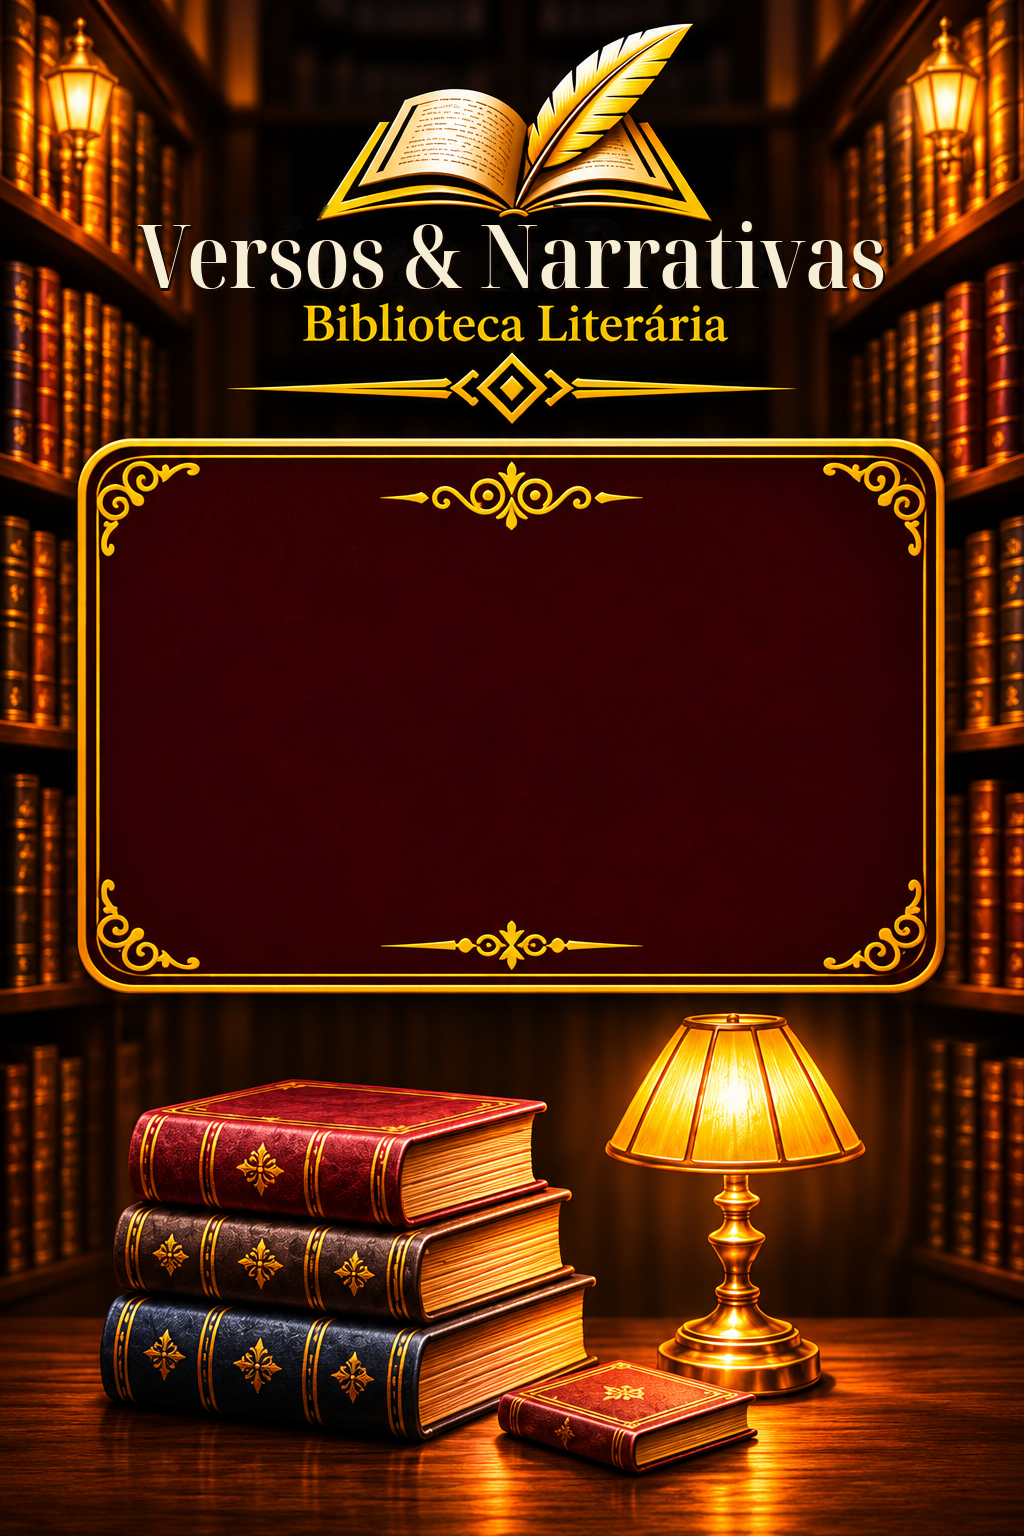
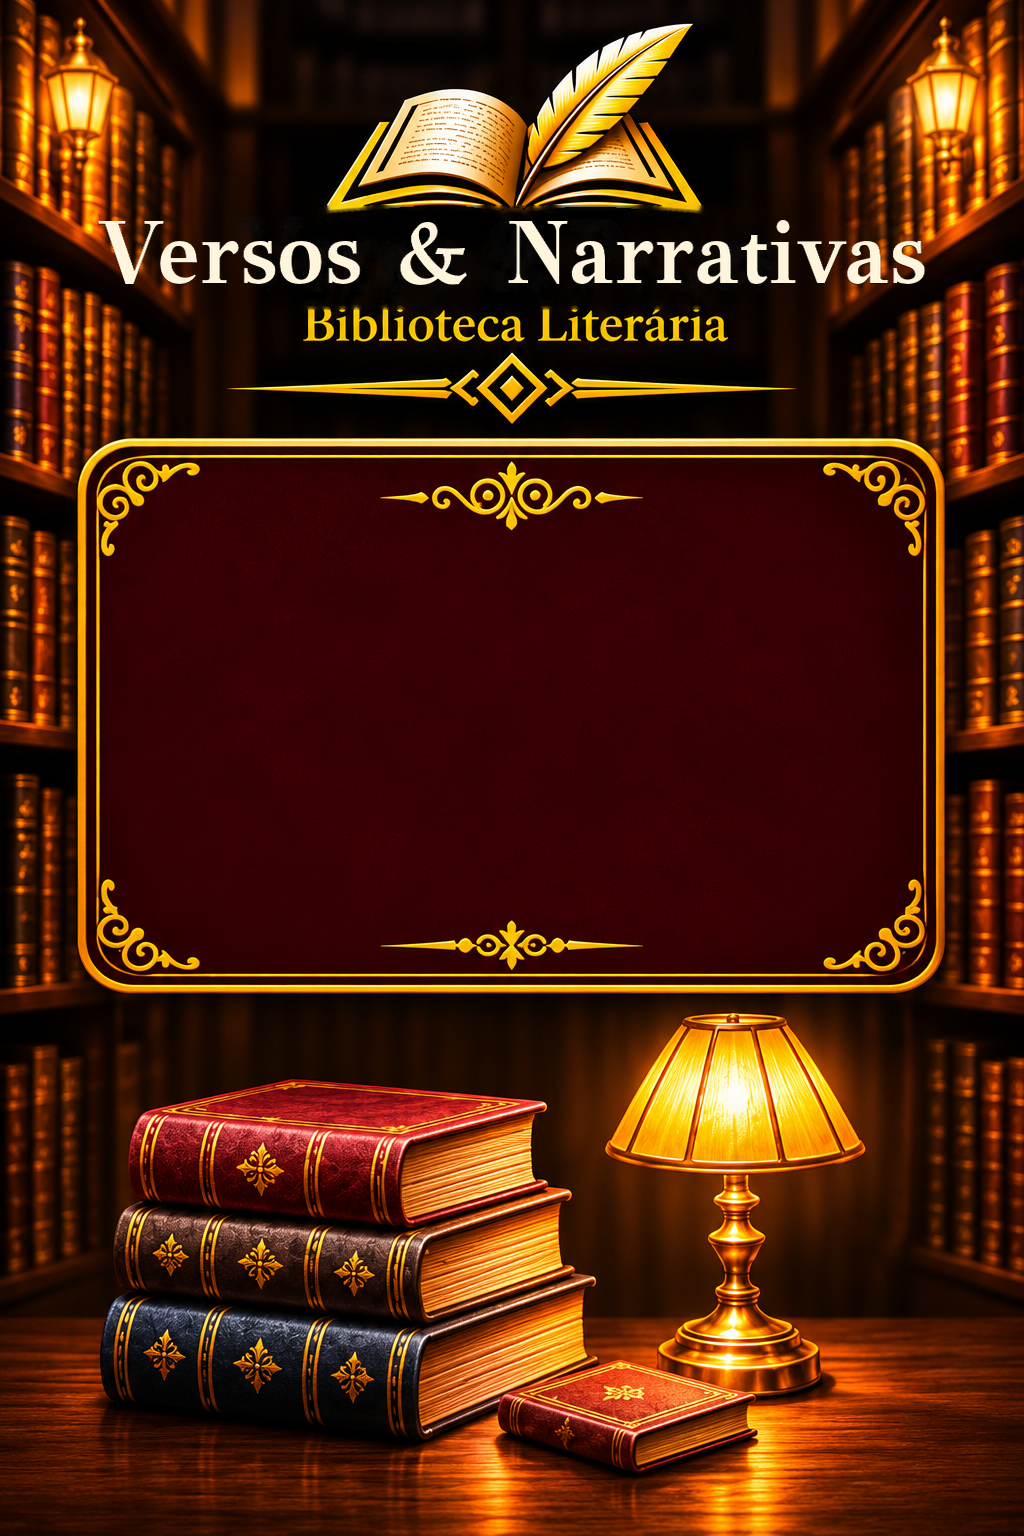
Add files via upload

Changed region(s): [[0.0938, 0.125, 0.9062, 0.1875]]

diff --git a/style.css b/style.css
@@ -7327,3 +7327,164 @@ img { max-width: 100%; }
 #inicio .home-hero-banner.home-is-leticia .mock-greeting-copy::before {
   inset: -18px -24px !important;
 }
+
+
+/* V65 — troca fiel da assinatura e uso das duas artes de card aprovadas.
+   Não altera a estrutura, os atalhos, a navegação ou os demais módulos. */
+#inicio .mock-greeting.home-hero-banner {
+  flex: 0 0 auto !important;
+  width: 100% !important;
+  height: auto !important;
+  min-height: 0 !important;
+  max-height: none !important;
+  aspect-ratio: 1670 / 942 !important;
+  background: url("./assets/profiles/home-card-fernando-approved.png") center / 100% 100% no-repeat !important;
+}
+#inicio .mock-greeting.home-hero-banner.home-is-leticia {
+  background: url("./assets/profiles/home-card-leticia-approved.png") center / 100% 100% no-repeat !important;
+}
+#inicio .home-hero-banner .mock-user-avatar {
+  display: none !important;
+}
+#inicio .home-hero-banner .mock-greeting-copy {
+  position: absolute !important;
+  top: 49% !important;
+  left: 11.5% !important;
+  width: 46% !important;
+  max-height: 86% !important;
+  flex: none !important;
+  height: auto !important;
+  margin: 0 !important;
+  padding: 5px 8px !important;
+  transform: translateY(-50%) !important;
+  display: flex !important;
+  flex-direction: column !important;
+  align-items: center !important;
+  justify-content: center !important;
+  gap: clamp(3px, 1vw, 7px) !important;
+  text-align: center !important;
+}
+#inicio .home-hero-banner.home-is-leticia .mock-greeting-copy {
+  left: 35.5% !important;
+  right: auto !important;
+  width: 48% !important;
+  margin: 0 !important;
+  padding: 5px 8px !important;
+  align-items: center !important;
+  text-align: center !important;
+}
+#inicio .home-hero-banner .mock-greeting-copy::before {
+  display: none !important;
+  content: none !important;
+}
+#inicio .home-hero-banner .mock-greeting-copy h2 {
+  width: 100% !important;
+  margin: 0 !important;
+  color: #fff4df !important;
+  font: italic 700 clamp(16px, 4.8vw, 23px)/1.06 Georgia, "Times New Roman", serif !important;
+  letter-spacing: -.35px !important;
+  text-align: center !important;
+  white-space: normal !important;
+  text-shadow: 0 1px 3px rgba(0,0,0,.78) !important;
+}
+#inicio .home-hero-banner .home-hero-divider,
+#inicio .home-hero-banner .home-hero-flourish {
+  flex: 0 0 14px !important;
+  width: 72% !important;
+  height: 14px !important;
+  min-height: 14px !important;
+  margin: 0 auto !important;
+  background: url("./assets/ornaments/home-divider-ornate.svg") center / 100% 100% no-repeat !important;
+  filter: drop-shadow(0 1px 2px rgba(0,0,0,.7)) !important;
+}
+#inicio .home-hero-banner .home-hero-divider::after,
+#inicio .home-hero-banner .home-hero-flourish::before,
+#inicio .home-hero-banner .home-hero-flourish::after {
+  display: none !important;
+  content: none !important;
+}
+#inicio .home-hero-banner .mock-greeting-copy p {
+  width: 100% !important;
+  max-width: 100% !important;
+  margin: 0 !important;
+  color: #fff3df !important;
+  font: 600 clamp(11.5px, 3.35vw, 16px)/1.15 Georgia, "Times New Roman", serif !important;
+  text-align: center !important;
+  text-shadow: 0 1px 3px rgba(0,0,0,.82) !important;
+}
+@media (max-width: 360px) {
+  #inicio .home-hero-banner .mock-greeting-copy { left: 10.5% !important; width: 48% !important; }
+  #inicio .home-hero-banner.home-is-leticia .mock-greeting-copy { left: 34% !important; width: 50% !important; }
+  #inicio .home-hero-banner .mock-greeting-copy h2 { font-size: 15.5px !important; }
+  #inicio .home-hero-banner .mock-greeting-copy p { font-size: 11px !important; }
+}
+
+
+/* V66 — assinatura da Home: mantém a tipografia clássica e o tamanho do
+   nome anterior, sem reduzir as letras para acomodar “Narrativas”. */
+#inicio .home-brand-lockup {
+  position: relative !important;
+  z-index: 3 !important;
+  display: flex !important;
+  flex: 0 1 auto !important;
+  width: 100% !important;
+  min-width: 0 !important;
+  flex-direction: column !important;
+  align-items: center !important;
+  justify-content: center !important;
+  gap: 0 !important;
+  margin: 0 auto !important;
+  padding: 0 4px !important;
+  text-align: center !important;
+  overflow: visible !important;
+}
+#inicio .home-brand-lockup-emblem {
+  display: block !important;
+  flex: 0 0 auto !important;
+  width: clamp(144px, 47vw, 190px) !important;
+  height: auto !important;
+  max-height: 85px !important;
+  margin: 0 auto -3px !important;
+  object-fit: contain !important;
+  filter: drop-shadow(0 2px 4px rgba(0,0,0,.78)) drop-shadow(0 0 5px rgba(245,184,61,.28)) !important;
+}
+#inicio .home-brand-lockup-title {
+  display: block !important;
+  width: 100% !important;
+  margin: 0 !important;
+  padding: 0 !important;
+  color: #fff0cf !important;
+  font-family: Georgia, "Times New Roman", serif !important;
+  font-size: clamp(25px, 9.3vw, 38px) !important;
+  font-weight: 400 !important;
+  font-style: normal !important;
+  line-height: .94 !important;
+  letter-spacing: -.7px !important;
+  white-space: nowrap !important;
+  text-align: center !important;
+  text-shadow: 0 2px 5px #000, 0 0 10px rgba(0,0,0,.85) !important;
+}
+#inicio .home-brand-lockup-subtitle {
+  display: block !important;
+  margin: 2px 0 0 !important;
+  padding: 0 !important;
+  color: #f1c95f !important;
+  font-family: Georgia, "Times New Roman", serif !important;
+  font-size: clamp(14px, 4.6vw, 19px) !important;
+  font-weight: 600 !important;
+  line-height: 1.02 !important;
+  letter-spacing: .1px !important;
+  text-align: center !important;
+  text-shadow: 0 1px 4px rgba(0,0,0,.9) !important;
+}
+@media (max-width: 320px) {
+  #inicio .home-brand-lockup-emblem {
+    width: 138px !important;
+    max-height: 72px !important;
+  }
+  #inicio .home-brand-lockup-title {
+    font-size: 24px !important;
+    letter-spacing: -.8px !important;
+  }
+  #inicio .home-brand-lockup-subtitle { font-size: 14px !important; }
+}

diff --git a/modules/mais/index.html b/modules/mais/index.html
@@ -2,7 +2,7 @@
 <section id="mais" class="page">
         <div class="page-heading">
           <img class="page-heading-emblem" src="./assets/login-emblem-approved-v6.png" alt="" aria-hidden="true"><p class="eyebrow">A CHAVE DA SUA BIBLIOTECA</p><h2>Mais</h2><p class="muted">Sua conta, suas preferências e sua jornada literária.</p></div>
-        <div class="profile-card"><div class="avatar" id="profileAvatar">L</div><div><b id="profileName">Leitor</b><p class="muted">Membro do Versos &amp; Narrativas</p></div><button class="link-button" id="changeProfile">Trocar conta</button></div>
+        <div class="profile-card"><div class="avatar" id="profileAvatar">L</div><div><b id="profileName">Leitor</b><p class="muted">Membro de Versos &amp; Narrativas</p></div><button class="link-button" id="changeProfile">Trocar conta</button></div>
         <div class="collection-list"><button class="collection-card" data-page="calendario"><span class="collection-mark">▦</span><span><b>Agenda de leitura</b><small>Metas e planejamento</small></span><strong>→</strong></button><button class="collection-card" data-page="estudio"><span class="collection-mark">✎</span><span><b>Ateliê literário</b><small>Criações sobre suas leituras</small></span><strong>→</strong></button><button class="collection-card" data-page="anotacoes"><span class="collection-mark">❧</span><span><b>Caderno de leitura</b><small>Suas notas e pensamentos</small></span><strong>→</strong></button></div>
         <button class="text-button logout" id="logout">Sair da biblioteca</button>
       </section>

diff --git a/index.html b/index.html
@@ -16,7 +16,7 @@
 <link rel="preconnect" href="https://fonts.googleapis.com">
 <link rel="preconnect" href="https://fonts.gstatic.com" crossorigin>
 <link href="https://fonts.googleapis.com/css2?family=Cormorant+Garamond:wght@400;500;600;700&family=Lora:wght@400;500;600&display=swap" rel="stylesheet">
-<link rel="stylesheet" href="./style.css?v=home-v63">
+<link rel="stylesheet" href="./style.css?v=home-v66">
 <link rel="stylesheet" href="./modules/estante/estante.css?v=58">
 <link rel="stylesheet" href="./modules/adicionar-livro/adicionar-livro.css?v=60">
 </head>
@@ -37,7 +37,7 @@
   <symbol id="vp-quote" viewBox="0 0 24 24"><path d="M9 11H4a5 5 0 0 1 5-5v5Zm11 0h-5a5 5 0 0 1 5-5v5ZM4 11v7h5v-7m6 0v7h5v-7"/></symbol>
   <symbol id="vp-user" viewBox="0 0 24 24"><circle cx="12" cy="8" r="4"/><path d="M4 21a8 8 0 0 1 16 0"/></symbol>
 </svg>
-<section id="welcome" class="welcome-screen" aria-label="Entrada do Versos & Narrativas">
+<section id="welcome" class="welcome-screen" aria-label="Entrada de Versos & Narrativas">
   <div class="welcome-art" aria-hidden="true">
     <picture>
       <source media="(min-width: 900px)" srcset="./assets/scenes/welcome-desktop-approved.webp">

diff --git a/sw.js b/sw.js
@@ -1,9 +1,11 @@
-const CACHE_NAME = 'verso-prosa-home-v64';
+const CACHE_NAME = 'verso-prosa-home-v66';
 const APP_FILES = [
   './',
   './index.html',
   './assets/profiles/lele-epoca.webp',
   './assets/profiles/fernando-epoca.webp',
+  './assets/profiles/home-card-fernando-approved.png',
+  './assets/profiles/home-card-leticia-approved.png',
   './manifest.json',
   './assets/brand/verso-emblema.svg',
   './assets/brand/verso-prosa-logo.svg',
@@ -56,7 +58,7 @@ const APP_FILES = [
   './assets/scenes/login-library-bg-v5.webp',
   './assets/login-emblem-gold-v5.png',
   './assets/scenes/login-bottom-approved-v6.webp',
-  './style.css?v=home-v63',
+  './style.css?v=home-v66',
   './modules/estante/estante.css?v=58',
   './modules/adicionar-livro/adicionar-livro.css?v=60',
   './app.js?v=modular-v60',

diff --git a/modules/home/index.html b/modules/home/index.html
@@ -3,8 +3,12 @@
   <header class="mock-home-header">
     <span class="home-header-lamp home-header-lamp-left" aria-hidden="true"></span>
     <span class="home-header-lamp home-header-lamp-right" aria-hidden="true"></span>
-    <img class="home-brand-full-logo" src="./assets/brand/verso-prosa-home-logo.png"
-      alt="Versos &amp; Narrativas — Biblioteca Literária">
+    <div class="home-brand-lockup" aria-label="Versos &amp; Narrativas — Biblioteca Literária">
+      <img class="home-brand-lockup-emblem" src="./assets/brand/verso-prosa-home-emblem.png"
+        alt="" aria-hidden="true">
+      <h1 class="home-brand-lockup-title">Versos &amp; Narrativas</h1>
+      <p class="home-brand-lockup-subtitle">Biblioteca Literária</p>
+    </div>
   </header>
 
   <div class="mock-home-body">

diff --git a/README.md b/README.md
@@ -1,4 +1,4 @@
-# Versos & Narrativas — Mockup Fiel v4
+# Versos & Narrativas — Biblioteca Literária
 
 Pacote de frontend construído sobre o mockup enviado por Fernando. As imagens de cenário foram recortadas da prancha visual aprovada e incluídas localmente em `assets/scenes`; não há dependência de imagens externas.
 
@@ -19,3 +19,12 @@ Os cenários são recortes de ambiente da imagem de referência do usuário, usa
 
 ## Login v3 (11/11/2026)
 A tela de login foi reconstruída com HTML e CSS. O arquivo de mockup completo não é mais usado como interface. Marca, campos, ícones, botão, ornamentos e moldura são componentes independentes; a imagem `assets/scenes/lamp-books.webp` é usada apenas como detalhe decorativo inferior. A autenticação e a chamada atual ao Apps Script foram preservadas.
+
+## Ajustes de identidade visual — Versos & Narrativas (v66)
+- As telas de abertura e login usam as artes atualizadas com o nome **Versos & Narrativas**.
+- A assinatura da Home foi refeita como texto real em tipografia serifada Georgia, mantendo a proporção clássica do nome e sem comprimir o título para caber.
+- Os cards aprovados de Fernando e Letícia são usados diretamente em `assets/profiles/home-card-fernando-approved.png` e `assets/profiles/home-card-leticia-approved.png`.
+- O card muda automaticamente conforme o perfil autenticado; os textos permanecem como conteúdo real do aplicativo.
+- O cache do aplicativo foi atualizado para v66 para evitar que o navegador reutilize a versão visual anterior.
+
+**Publicação:** envie a pasta `app_verso_prosa-main` completa para a raiz do repositório do GitHub Pages, mantendo todas as subpastas de `assets` e `modules`. Depois da publicação, faça uma atualização forçada com `Ctrl+Shift+R`. Caso o nome antigo continue apenas no atalho instalado como aplicativo do Windows, remova o atalho antigo e instale novamente pelo site atualizado.
